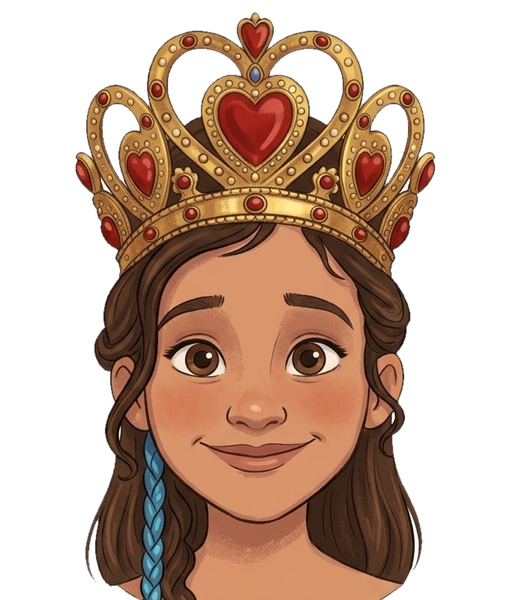
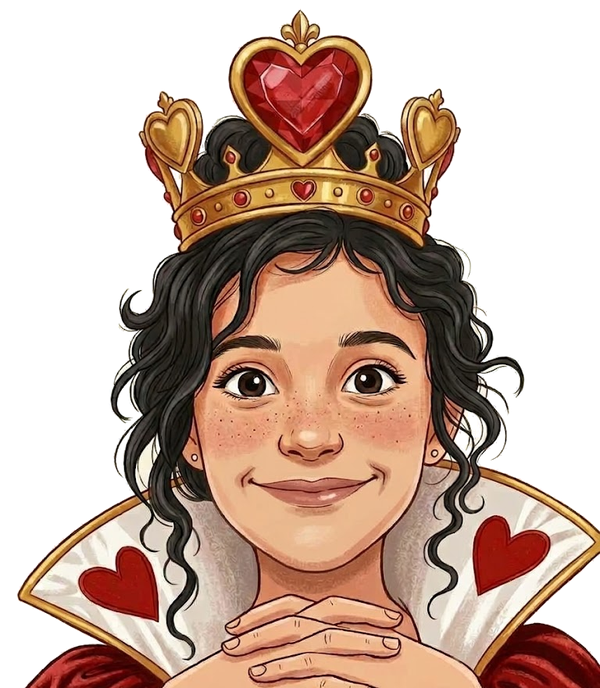
New drawing of Rotem as the queen of hearts
public/rotem.png is the family's new drawing, cut out of its cream
background (the white collar with its hearts kept). It is framed in the
heart frame so her face sits in the middle and her crown pops out above
the frame, as before.

Claude-Session: https://claude.ai/code/session_01ESZoghrFMgfN839jkUBWun

diff --git a/src/party/shared/RotemPhoto.js b/src/party/shared/RotemPhoto.js
@@ -2,13 +2,13 @@ import React, { useEffect, useState } from 'react';
 import { HEART_PATH, useSvgId } from './Heart';
 import { Sparkle } from './PartyBackdrop';
 
-// The birthday girl: public/rotem.png, a drawing of Rotem cut out on a
-// transparent background (width = the heart's width, face center 545px from
-// the top). Her own crown pops out above the heart frame. Without the file a
-// placeholder heart with a drawn crown is shown.
+// The birthday girl: public/rotem.png, a drawing of Rotem as the queen of
+// hearts cut out on a transparent background (its width = the heart's width,
+// the face center 61% down the drawing). Her own crown pops out above the
+// heart frame. Without the file a placeholder heart with a drawn crown is shown.
 const PHOTO_URL = `${process.env.PUBLIC_URL || ''}/rotem.png`;
 // where the drawing sits in the heart's 100 x 92 box
-const ART = { x: 0, y: -28.1, width: 100, height: 117.6 };
+const ART = { x: 0, y: -25.3, width: 100, height: 114.6 };
 
 let photoPromise = null;
 let knownUrl; // undefined = not checked yet, null = no photo
